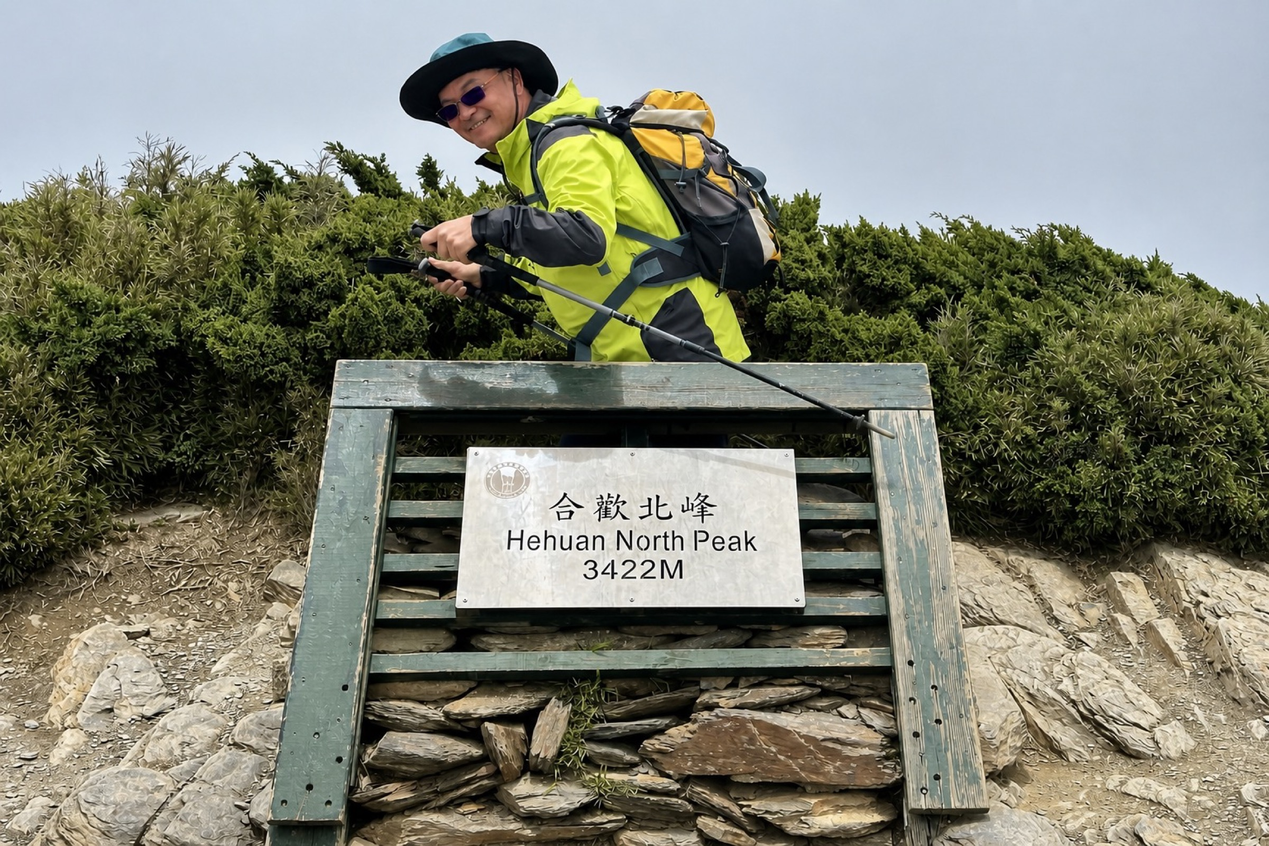
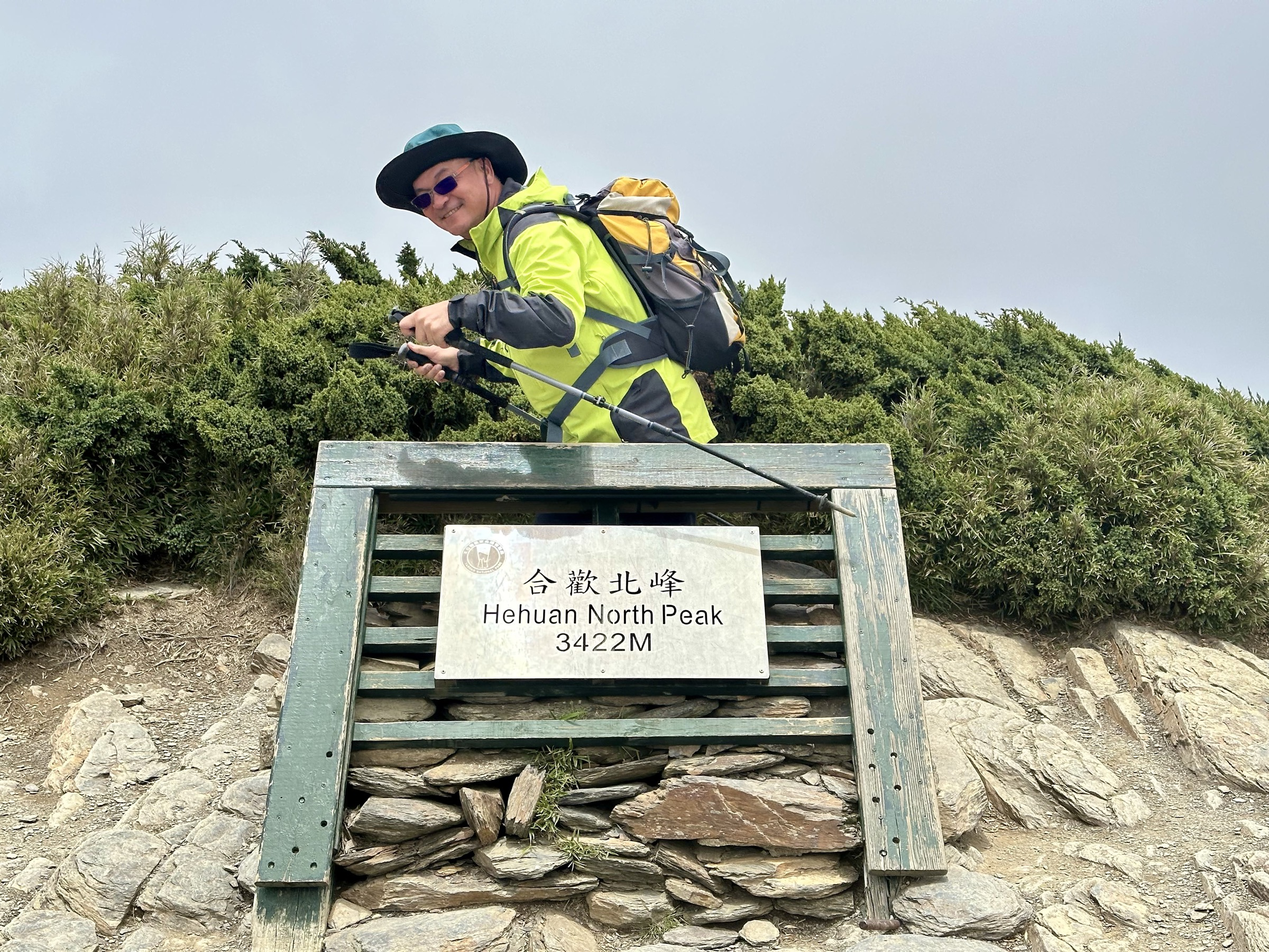
fix: preserve hiker in legacy image

diff --git a/tests/image-pipeline.test.ts b/tests/image-pipeline.test.ts
@@ -7,6 +7,7 @@ test('the image command has a committed source-image pipeline', () => {
 
   expect(pipeline).toContain('hero-mountain.jpg');
   expect(pipeline).toContain('IMG_1418.jpg');
+  expect(pipeline).toContain("['參考資料/照片/IMG_1418.jpg', 'public/images/legacy-trail.jpg']");
   expect(pipeline).toContain('legacy-trail.jpg');
 });
 
@@ -20,6 +21,14 @@ test('the shared layout maps every content page to a dedicated association image
 
   for (const [route, image] of Object.entries(expectedImages)) {
     const html = readFileSync(`dist/${route}/index.html`, 'utf8');
-    expect(html).toContain(`<img class="page-image" src="/images/${image}"`);
+    expect(html).toContain(`<img`);
+    expect(html).toContain(`src="/images/${image}"`);
   }
+});
+
+test('the legacy image keeps the hiker and summit sign without cover cropping', () => {
+  const css = readFileSync('src/styles/global.css', 'utf8');
+
+  expect(css).toMatch(/\.page-image--legacy\s*\{[^}]*max-height:\s*none/);
+  expect(css).toMatch(/\.page-image--legacy\s*\{[^}]*object-fit:\s*contain/);
 });

diff --git a/src/styles/global.css b/src/styles/global.css
@@ -35,6 +35,7 @@ a { color: inherit; }
 .skip:focus { left: 1rem; top: 1rem; z-index: 9; background: white; padding: .5rem; }
 a:focus-visible { outline: 3px solid var(--gold); outline-offset: 3px; }
 .page-image { display: block; width: min(100%, 1200px); max-height: 52vh; object-fit: cover; margin: 0 auto; }
+.page-image--legacy { max-height: none; object-fit: contain; }
 
 .hero {
   min-height: 72vh;
